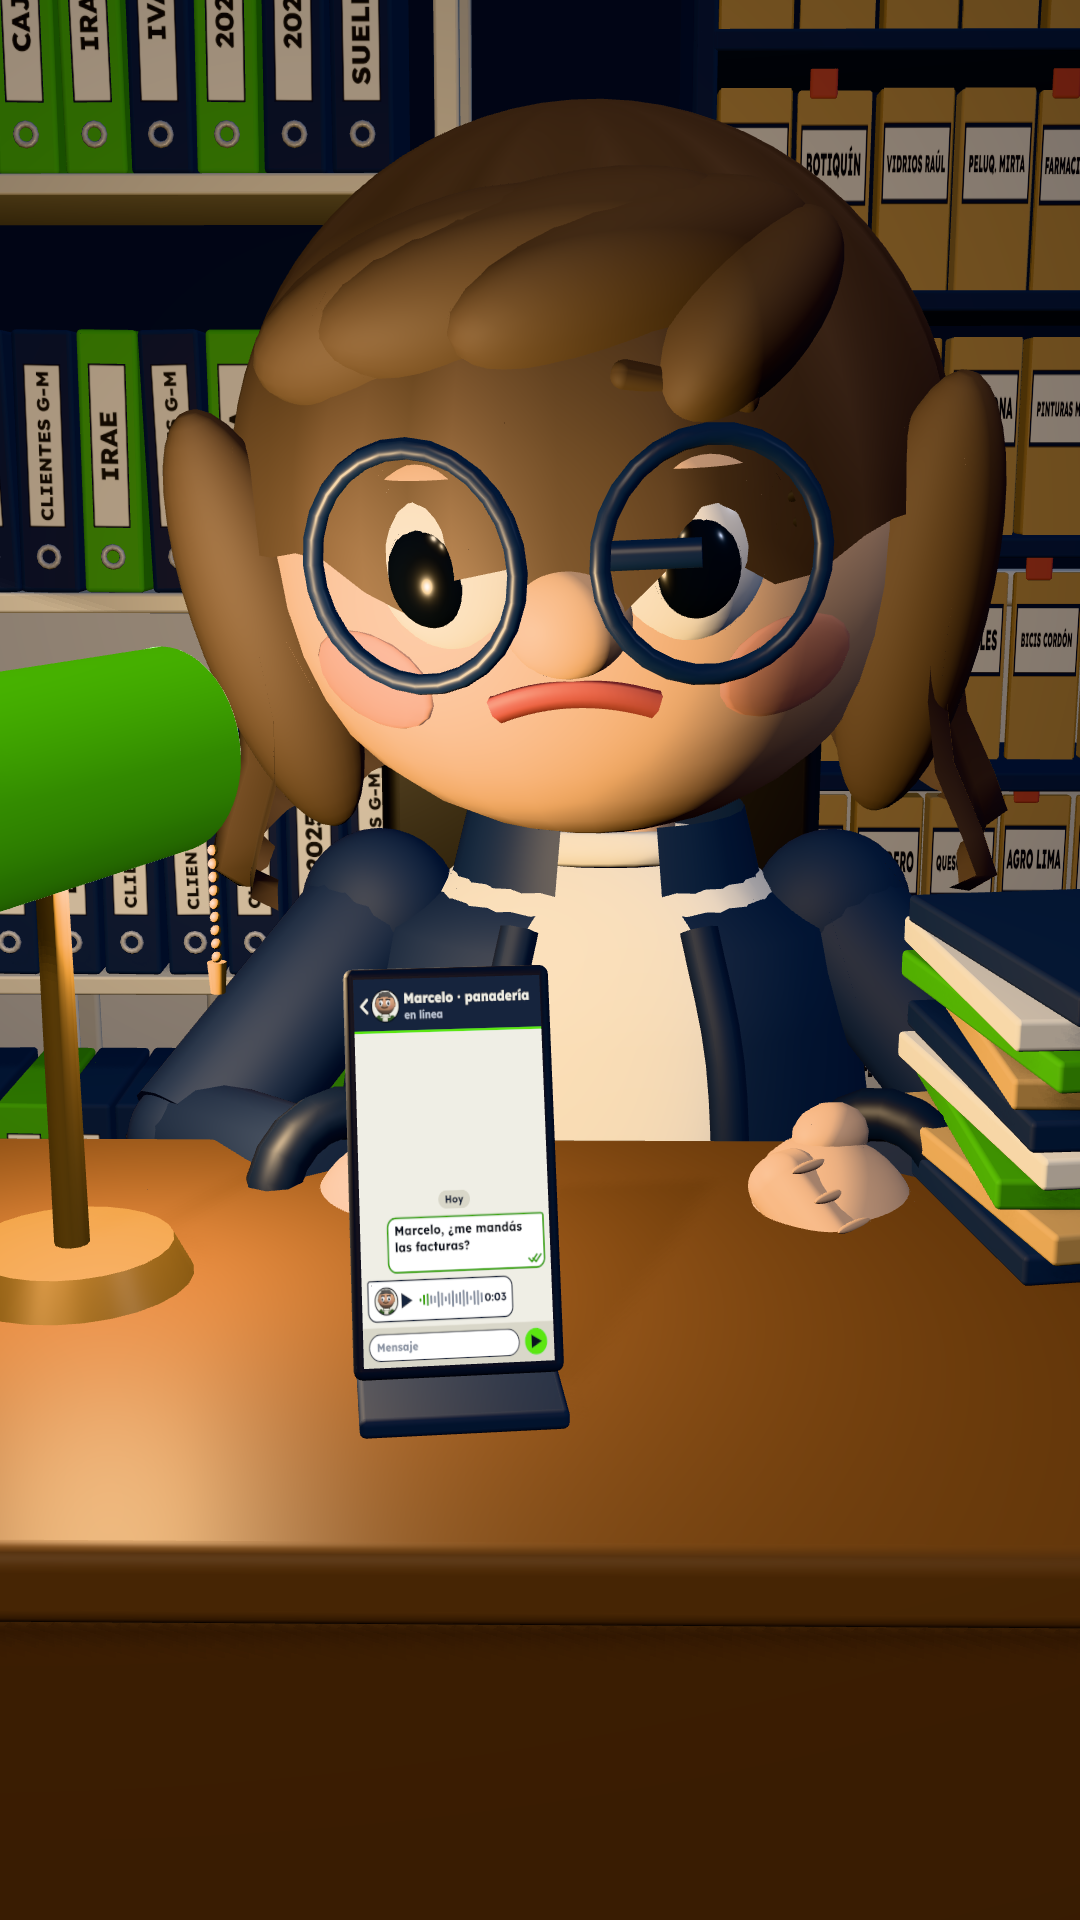
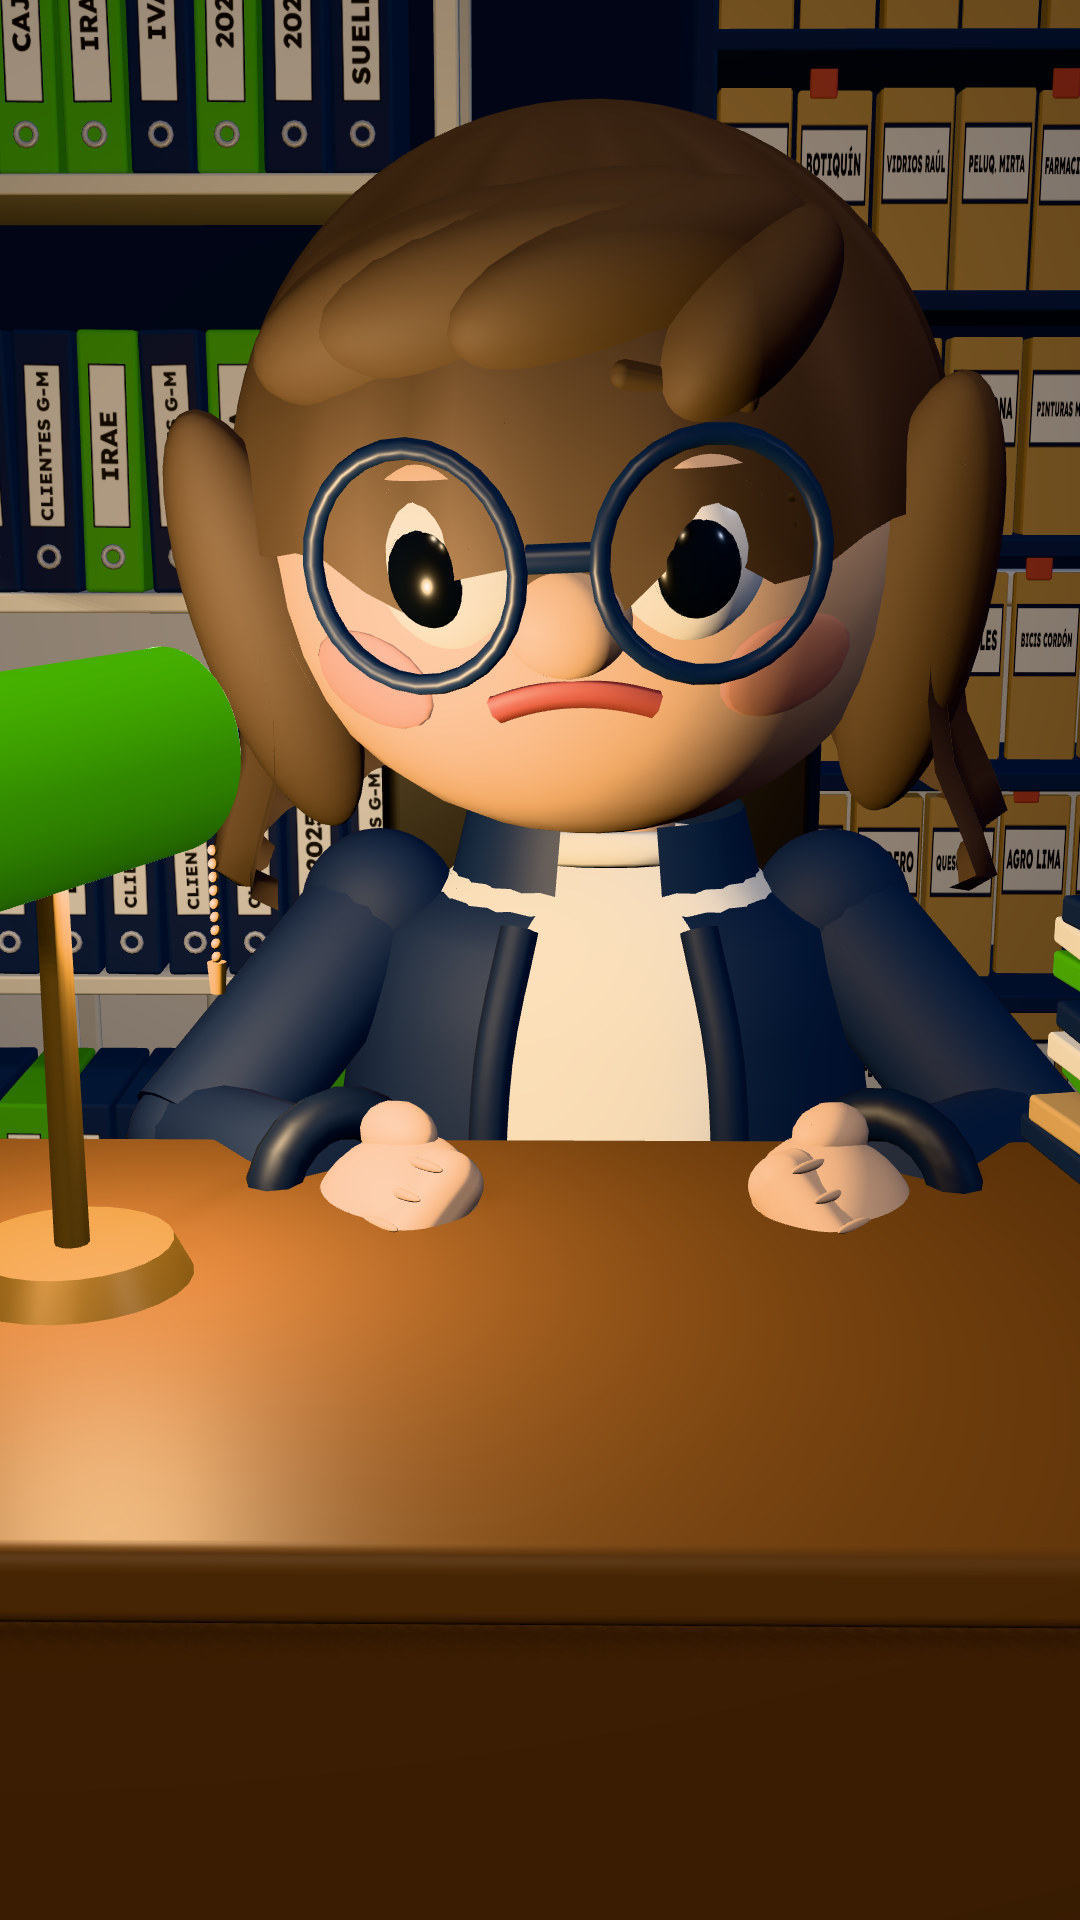
wip: contable-papeles (ronda 2: burbuja Ese es el más importante)
Claude-Session: https://claude.ai/code/session_01Fn7kXDweGzq86BQfvQGGkH

Changed region(s): [[0.3056, 0.5, 0.55, 0.75], [0.825, 0.4375, 1.0, 0.6875], [0.4889, 0.2812, 0.6722, 0.3125]]

diff --git a/reels/contable-papeles/assets/tres.js b/reels/contable-papeles/assets/tres.js
@@ -8,7 +8,7 @@
 //     con tickets, la puerta de calle; de noche (parte 1) y de tarde (parte 2)
 //   "PANADERÍA MARCELO" (x = 40): azulejo blanco con guarda verde, mostrador con vitrina, bolsas de harina
 //   PARTE 1: el audio "Adri, las facturas te las mando mañana sin falta." · "Marcelo. Vence hoy." · las fotos · el
-//            piolín · los sobres · "Acá está todo, Adri. Ordenadito." · la avalancha · "¿Y esta?" · "Esa es la más
+//            piolín · los sobres · "Acá está todo, Adri. Ordenadito." · la avalancha · "¿Y este?" · "Ese es el más
 //            importante." · la pausa (rótulos) · "Si querés, te mando una foto." · la foto en blanco
 //   PARTE 2: el WhatsApp del estudio en la panadería · la foto de la factura · "Listo. Ordenadito." · el panel · el
 //            mismo audio · "Marcelo, las mandaste el día tres." · "¿Yo? Qué ordenadito." · 60 de 60 · la lámpara se
@@ -1014,7 +1014,7 @@ const GL = {
   a1: crearGlobo(["Marcelo. [Vence hoy.]"], 80),
   m2: crearGlobo(["Acá está todo, Adri.", "[Ordenadito.]"], 78),
   a2: crearGlobo(["¿Y [este?]"], 100),
-  m3: crearGlobo(["Esa es la", "[más importante.]"], 86),
+  m3: crearGlobo(["Ese es el", "[más importante.]"], 86),
   m4: crearGlobo(["Si querés, te", "mando [una foto.]"], 80),
   m5: crearGlobo(["Listo. [Ordenadito.]"], 80),
   m1b: crearAudio(["Adri, las facturas te las", "mando [mañana s…]"], "0:03", 58),   // (r2) Adriana lo corta

diff --git a/reels/contable-papeles/fuentes.md b/reels/contable-papeles/fuentes.md
@@ -4,8 +4,10 @@ Reel de la línea "ANTES QUE TODO" (rubro + dolor + solución), comedia de situa
 Marcelo, Lucas; Sofi del elenco). **No afirma datos externos, estadísticas, porcentajes, fechas de vencimiento, multas,
 recargos ni empresas reales.** Los números son del caso que se cuenta:
 - "Estudio Adriana" tiene 60 clientes (inventado). Parte 1: "Mandaron 33 → 41 de 60" el último día, "Cuarta noche hasta
-  las 2", "Un mes en una caja de zapatos". Parte 2: "Mandaron 0 → 38 → 52 de 60", "Recordatorio automático enviado a 22",
-  "Marcelo · Noviembre · 14", "60 de 60", "Noches hasta las 2: 0". Todo ficción del caso, ninguna cifra se presenta como
+  las 2", "Un mes en una caja de zapatos". Parte 2 (r2): el 1 de noviembre el estudio pide los comprobantes de
+  octubre; "Mandaron 0 → 38 de 60" (Día 3), "Recordatorio automático enviado a 22" y 38 → 52 (Día 5), 52 → 60 de 60 ✓
+  (Día 8, TALLER ROLO 9 ✓); Marcelo sube "Octubre completo · 14 ✓" el día 3 ("Marcelo · Octubre · 14 ✓", del 3 al 31 de
+  octubre); el último día el panel ya está en "60 de 60 ✓" y a las 18:05 "Noches hasta las 2: 0". Todo ficción del caso, ninguna cifra se presenta como
   promedio de nada.
 - "Último día" y "Vence hoy" van **sin fecha y sin nombrar el impuesto** a propósito (pedido del coordinador: no poner
   vencimientos de DGI/BPS sin verificarlos con dos fuentes; el chiste no los necesita). Los lomos de los biblioratos
